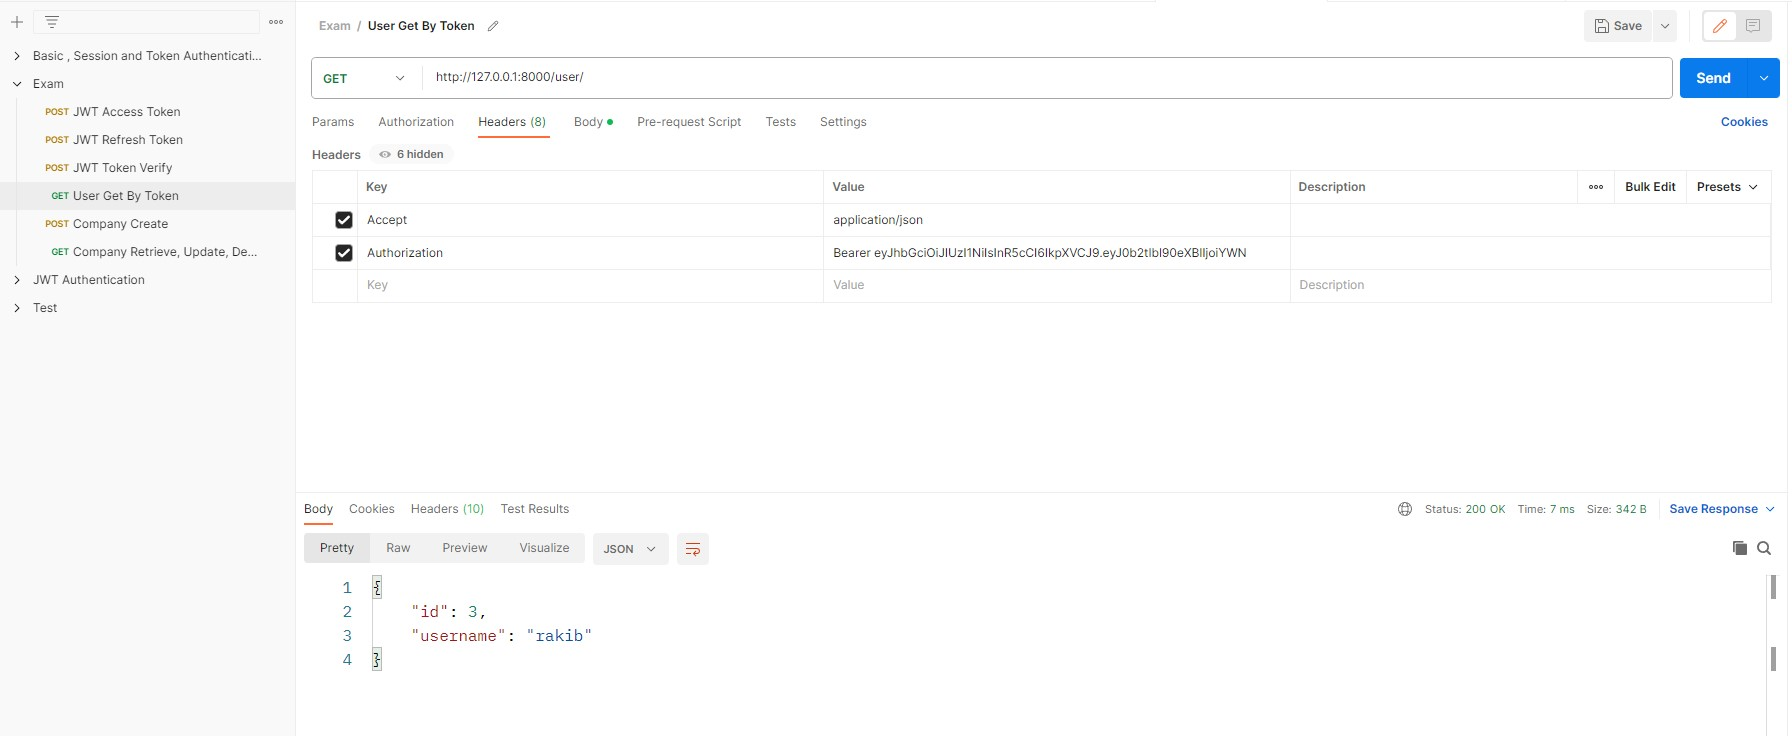
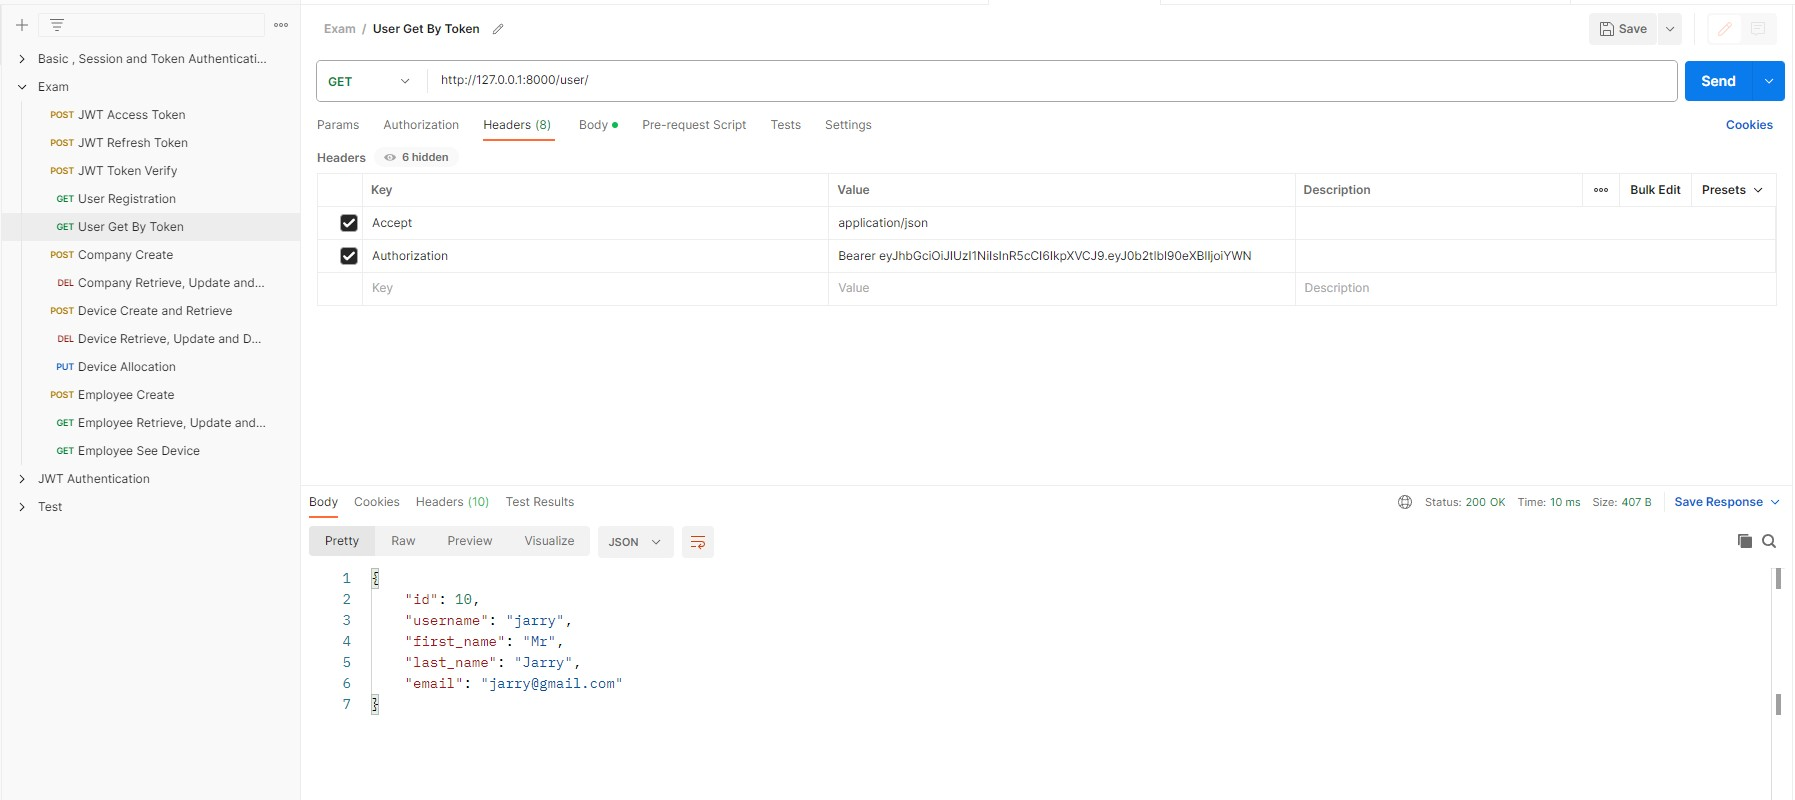
update user registration

diff --git a/app/serializers.py b/app/serializers.py
@@ -1,11 +1,56 @@
 from rest_framework import serializers
 from .models import Company, Device, Employee, DeviceAllocation
 from django.contrib.auth import get_user_model
+from django.contrib.auth.models import User
+from rest_framework.validators import UniqueValidator
+from django.contrib.auth.password_validation import validate_password
+
+
+class UserRegistrationSerializer(serializers.ModelSerializer):
+    email = serializers.EmailField(
+            required=True,
+            validators=[UniqueValidator(queryset=User.objects.all())]
+            )
+
+    password = serializers.CharField(write_only=True, required=True, validators=[validate_password], style={'input_type':'password'})
+    password2 = serializers.CharField(write_only=True, required=True, style={'input_type':'password'})
+
+    class Meta:
+        model = User
+        fields = ('username', 'password', 'password2', 'email', 'first_name', 'last_name')
+        extra_kwargs = {
+            'first_name': {'required': True},
+            'last_name': {'required': True},
+            'password':{'write_only':True}
+        }
+
+    def validate(self, attrs): 
+        if attrs['password'] != attrs['password2']:
+            raise serializers.ValidationError({"password": "Password fields didn't match."})
+        
+        return attrs
+
+    def create(self, validated_data):
+        user = User.objects.create(
+            username=validated_data['username'],
+            email=validated_data['email'],
+            first_name=validated_data['first_name'],
+            last_name=validated_data['last_name']
+        )
+
+        
+        user.set_password(validated_data['password'])
+        user.save()
+
+        return user
+    
+
+
 
 class UserSerializer(serializers.ModelSerializer):
     class Meta:
         model = get_user_model()
-        fields = ('id', 'username')
+        fields = ('id', 'username', 'first_name', 'last_name', 'email')
 
 
 

diff --git a/app/views.py b/app/views.py
@@ -2,16 +2,46 @@ from django.shortcuts import render
 from django.contrib.auth.models import User
 from app.models import Company, Employee, Device, DeviceAllocation
 from app.serializers import (
-    UserSerializer, CompanySerializer, DeviceSerializer, EmployeeSerializer, DeviceAllocationSerializer
+    UserSerializer,
+    CompanySerializer,
+    DeviceSerializer,
+    EmployeeSerializer,
+    DeviceAllocationSerializer, 
+    UserRegistrationSerializer,
 )
 
 
-
+from rest_framework import status
+from rest_framework.response import Response
 from rest_framework import generics
 from rest_framework.permissions import IsAuthenticated, IsAdminUser
 from rest_framework.generics import RetrieveAPIView
+from rest_framework.views import APIView
+from rest_framework_simplejwt.tokens import RefreshToken
+
 
 ## Create your views here.
+def get_tokens_for_user(user):
+    refresh = RefreshToken.for_user(user)
+
+    return {
+        'refresh': str(refresh),
+        'access': str(refresh.access_token),
+    }
+
+
+class UserRegistrationView(APIView):
+
+    def post(self, request, format=None):
+        serializer = UserRegistrationSerializer(data=request.data)
+        if serializer.is_valid(raise_exception=True):
+            user = serializer.save()
+            token = get_tokens_for_user(user) 
+            return Response({'token': token,'msg':'Registration Successful'}, status=status.HTTP_201_CREATED)
+        
+        return Response(serializer.errors, status=status.HTTP_400_BAD_REQUEST)
+    
+
 
 class UserAPIView(RetrieveAPIView):
     permission_classes = [IsAuthenticated]

diff --git a/app/urls.py b/app/urls.py
@@ -12,9 +12,12 @@ urlpatterns = [
 
     path('api/token/', TokenObtainPairView.as_view(), name='token_obtain_pair'),
     path('api/token/refresh/', TokenRefreshView.as_view(), name='token_refresh'),
-    
+
     # For TokenVerifyView
     path('api/token/verify/', TokenVerifyView.as_view(), name='token_verify'),
+
+    # User Registration
+    path('user-registration/', UserRegistrationView.as_view(), name='user-registration'),
 
 
     path('user/', UserAPIView.as_view(), name='user'),
